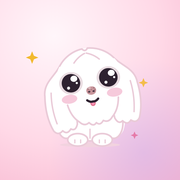
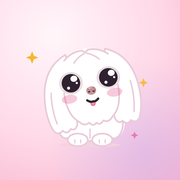
Pach: back to previous head outline
Claude-Session: https://claude.ai/code/session_01Qq7x9UtQMYa62nxgboFkmY

diff --git a/index.html b/index.html
@@ -11,7 +11,7 @@
 <meta name="theme-color" content="#FFF4F7" media="(prefers-color-scheme: light)">
 <meta name="theme-color" content="#1D1522" media="(prefers-color-scheme: dark)">
 <link rel="manifest" href="manifest.webmanifest">
-<link rel="apple-touch-icon" href="icons/apple-touch-icon.png?v=4">
+<link rel="apple-touch-icon" href="icons/apple-touch-icon.png?v=5">
 <link rel="icon" type="image/png" sizes="192x192" href="icons/icon-192.png">
 <script src="https://cdn.jsdelivr.net/npm/@supabase/supabase-js@2.45.4/dist/umd/supabase.js"></script>
 <script src="cloud.js"></script>
@@ -374,7 +374,7 @@ input,select,textarea{font-size:16px}
       <span class="status" id="status">Loading your saved data…</span>
     </div>
     <div class="pigbox">
-      <svg class="pig" id="pig" viewBox="0 0 120 112" role="img" aria-label="Pach the dog">         <ellipse cx="60" cy="110" rx="27" ry="2" fill="var(--line)"/>         <path d="M31 66 Q26 84 30 97 Q34 105 40 104 Q46 107.5 52 104.5 Q60 108.5 68 104.5 Q74 107.5 80 104 Q86 105 90 97 Q94 84 89 66 Z" fill="var(--fur)"/>         <path d="M30.5 88 Q30 95 32.5 99.5 Q35.5 105 40 104 Q46 107.5 52 104.5 Q60 108.5 68 104.5 Q74 107.5 80 104 Q84.5 105 87.5 99.5 Q90 95 89.5 88" fill="none" stroke="var(--fur-edge)" stroke-width="1.5" stroke-linecap="round" stroke-linejoin="round"/>         <g fill="none" stroke="var(--fur-edge)" stroke-width="1.2" stroke-linecap="round"><path d="M60 96 L60 104"/></g>         <g fill="var(--fur)" stroke="var(--fur-edge)" stroke-width="1.5">           <ellipse cx="49" cy="105.5" rx="9" ry="5.6"/><ellipse cx="71" cy="105.5" rx="9" ry="5.6"/>         </g>         <g fill="none" stroke="var(--fur-edge)" stroke-width="1.1" stroke-linecap="round">           <path d="M46.4 108.2 v-2.6"/><path d="M51.6 108.2 v-2.6"/><path d="M68.4 108.2 v-2.6"/><path d="M73.6 108.2 v-2.6"/>         </g>         <g transform="rotate(-9 60 54)">           <g fill="var(--fur)" stroke="var(--fur-edge)" stroke-width="1.5" stroke-linejoin="round">             <path d="M46 32 L35.5 35.1 C29 44 18.5 48 18 60 Q15.5 78 21 92 Q24.5 97 29 93 Q32.5 97.5 36.5 92.5 Q40.5 95.5 43 89 Q44 70 46 50 Z"/>             <path d="M74 32 L84.5 35.1 C91 44 101.5 48 102 60 Q104.5 78 99 92 Q95.5 97 91 93 Q87.5 97.5 83.5 92.5 Q79.5 95.5 77 89 Q76 70 74 50 Z"/>           </g>           <ellipse cx="60" cy="53" rx="30.5" ry="30" fill="var(--fur)"/>           <path d="M59.2 27.4 Q53 29.5 48.5 34.5" fill="none" stroke="var(--fur-edge)" stroke-width="1.3" stroke-linecap="round"/><path d="M60.8 27.4 Q67 29.5 71.5 34.5" fill="none" stroke="var(--fur-edge)" stroke-width="1.3" stroke-linecap="round"/><path d="M35.5 35.1 A30.5 30 0 0 1 57.5 23.1 Q60 26.6 62.5 23.1 A30.5 30 0 0 1 84.5 35.1" fill="none" stroke="var(--fur-edge)" stroke-width="1.5" stroke-linecap="round"/>           <path d="M36 58 Q34 80 45 87.5 Q49 92.5 53.5 89.5 Q57 94 60 90.5 Q63 94 66.5 89.5 Q71 92.5 75 87.5 Q86 80 84 58 Z" fill="var(--fur)"/>           <path d="M36.9 71 Q38.6 82 45 87.5 Q49 92.5 53.5 89.5 Q57 94 60 90.5 Q63 94 66.5 89.5 Q71 92.5 75 87.5 Q81.4 82 83.1 71" fill="none" stroke="var(--fur-edge)" stroke-width="1.5" stroke-linejoin="round" stroke-linecap="round"/>           <g fill="none" stroke="var(--fur-edge)" stroke-width="1.3" stroke-linecap="round">                          <path d="M24 58 Q22 72 25 86"/><path d="M96 58 Q98 72 95 86"/>           </g>           <ellipse cx="43" cy="52" rx="10.6" ry="10" fill="var(--rim)"/>           <ellipse cx="77" cy="52" rx="10.6" ry="10" fill="var(--rim)"/>           <g class="pig-eyes">             <circle cx="43" cy="52" r="8.3" fill="var(--eye)"/><circle cx="77" cy="52" r="8.3" fill="var(--eye)"/>             <ellipse cx="46.2" cy="48.4" rx="3.1" ry="2.8" fill="#fff"/><ellipse cx="80.2" cy="48.4" rx="3.1" ry="2.8" fill="#fff"/><circle cx="48.2" cy="52.6" r="1" fill="#fff"/><circle cx="82.2" cy="52.6" r="1" fill="#fff"/>             <circle cx="40.2" cy="56" r="1.4" fill="#fff" opacity=".9"/><circle cx="74.2" cy="56" r="1.4" fill="#fff" opacity=".9"/>           </g>           <ellipse cx="39.5" cy="66" rx="7" ry="4" fill="var(--accent)" opacity=".32"/><ellipse cx="80.5" cy="66" rx="7" ry="4" fill="var(--accent)" opacity=".32"/>           <g transform="translate(60 61.4) scale(0.72) translate(-60 -61.4)"><path d="M53.8 61 Q54.2 56.2 60 56.2 Q65.8 56.2 66.2 61 Q65.8 66.2 60 66.6 Q54.2 66.2 53.8 61 Z" fill="var(--nose)"/>           <ellipse cx="57.2" cy="62.4" rx="1.5" ry="1.15" fill="var(--eye)" opacity=".75"/>           <ellipse cx="62.8" cy="62.4" rx="1.5" ry="1.15" fill="var(--eye)" opacity=".75"/>           <g fill="var(--eye)" opacity=".4"><circle cx="56.5" cy="58.8" r=".7"/><circle cx="63.6" cy="58.4" r=".6"/><circle cx="60.3" cy="60.2" r=".55"/><circle cx="64.6" cy="60.8" r=".6"/></g>           <ellipse cx="58" cy="57.9" rx="2" ry=".9" fill="#fff" opacity=".45"/>           </g>           <g id="dogTongue"><path d="M57.8 71.1 Q57.6 74.8 59.8 74.9 Q62 74.8 61.8 71.2 Z" fill="#F48FB1" stroke="#E2728F" stroke-width=".9" stroke-linejoin="round"/></g>           <path id="pigMouth" d="M55 69.4 Q57.5 71.8 60 71.2 Q62.5 71.8 65 69.4" fill="none" stroke="var(--eye)" stroke-width="2" stroke-linecap="round" stroke-linejoin="round"/>         </g>         <path d="M8 26 l1.6 4 4 1.6 -4 1.6 -1.6 4 -1.6 -4 -4 -1.6 4 -1.6z" fill="var(--gold)"/>         <path d="M108 50 l1.2 3 3 1.2 -3 1.2 -1.2 3 -1.2 -3 -3 -1.2 3 -1.2z" fill="var(--gold)" opacity=".85"/>         <path d="M100 98 l1 2.4 2.4 1 -2.4 1 -1 2.4 -1 -2.4 -2.4 -1 2.4 -1z" fill="var(--accent)" opacity=".7"/>       </svg>
+      <svg class="pig" id="pig" viewBox="0 0 120 112" role="img" aria-label="Pach the dog">         <ellipse cx="60" cy="110" rx="27" ry="2" fill="var(--line)"/>         <path d="M31 66 Q26 84 30 97 Q34 105 40 104 Q46 107.5 52 104.5 Q60 108.5 68 104.5 Q74 107.5 80 104 Q86 105 90 97 Q94 84 89 66 Z" fill="var(--fur)"/>         <path d="M30.5 88 Q30 95 32.5 99.5 Q35.5 105 40 104 Q46 107.5 52 104.5 Q60 108.5 68 104.5 Q74 107.5 80 104 Q84.5 105 87.5 99.5 Q90 95 89.5 88" fill="none" stroke="var(--fur-edge)" stroke-width="1.5" stroke-linecap="round" stroke-linejoin="round"/>         <g fill="none" stroke="var(--fur-edge)" stroke-width="1.2" stroke-linecap="round"><path d="M60 96 L60 104"/></g>         <g fill="var(--fur)" stroke="var(--fur-edge)" stroke-width="1.5">           <ellipse cx="49" cy="105.5" rx="9" ry="5.6"/><ellipse cx="71" cy="105.5" rx="9" ry="5.6"/>         </g>         <g fill="none" stroke="var(--fur-edge)" stroke-width="1.1" stroke-linecap="round">           <path d="M46.4 108.2 v-2.6"/><path d="M51.6 108.2 v-2.6"/><path d="M68.4 108.2 v-2.6"/><path d="M73.6 108.2 v-2.6"/>         </g>         <g transform="rotate(-9 60 54)">           <g fill="var(--fur)" stroke="var(--fur-edge)" stroke-width="1.5" stroke-linejoin="round">             <path d="M42 26 Q22 34 18 58 Q15 78 21 92 Q24.5 97 29 93 Q32.5 97.5 36.5 92.5 Q40.5 95.5 43 89 Q44 70 46 50 Z"/>             <path d="M78 26 Q98 34 102 58 Q105 78 99 92 Q95.5 97 91 93 Q87.5 97.5 83.5 92.5 Q79.5 95.5 77 89 Q76 70 74 50 Z"/>           </g>           <ellipse cx="60" cy="53" rx="30.5" ry="30" fill="var(--fur)"/>           <path d="M59.2 27.4 Q53 29.5 48.5 34.5" fill="none" stroke="var(--fur-edge)" stroke-width="1.3" stroke-linecap="round"/><path d="M60.8 27.4 Q67 29.5 71.5 34.5" fill="none" stroke="var(--fur-edge)" stroke-width="1.3" stroke-linecap="round"/><path d="M40 31 Q48 24 57.5 24.6 Q60 27.6 62.5 24.6 Q72 24 80 31" fill="none" stroke="var(--fur-edge)" stroke-width="1.5" stroke-linecap="round"/>           <path d="M36 58 Q34 80 45 87.5 Q49 92.5 53.5 89.5 Q57 94 60 90.5 Q63 94 66.5 89.5 Q71 92.5 75 87.5 Q86 80 84 58 Z" fill="var(--fur)"/>           <path d="M35.5 60 Q35 80 45 87.5 Q49 92.5 53.5 89.5 Q57 94 60 90.5 Q63 94 66.5 89.5 Q71 92.5 75 87.5 Q85 80 84.5 60" fill="none" stroke="var(--fur-edge)" stroke-width="1.5" stroke-linejoin="round" stroke-linecap="round"/>           <g fill="none" stroke="var(--fur-edge)" stroke-width="1.3" stroke-linecap="round">                          <path d="M24 58 Q22 72 25 86"/><path d="M96 58 Q98 72 95 86"/>           </g>           <ellipse cx="43" cy="52" rx="10.6" ry="10" fill="var(--rim)"/>           <ellipse cx="77" cy="52" rx="10.6" ry="10" fill="var(--rim)"/>           <g class="pig-eyes">             <circle cx="43" cy="52" r="8.3" fill="var(--eye)"/><circle cx="77" cy="52" r="8.3" fill="var(--eye)"/>             <ellipse cx="46.2" cy="48.4" rx="3.1" ry="2.8" fill="#fff"/><ellipse cx="80.2" cy="48.4" rx="3.1" ry="2.8" fill="#fff"/><circle cx="48.2" cy="52.6" r="1" fill="#fff"/><circle cx="82.2" cy="52.6" r="1" fill="#fff"/>             <circle cx="40.2" cy="56" r="1.4" fill="#fff" opacity=".9"/><circle cx="74.2" cy="56" r="1.4" fill="#fff" opacity=".9"/>           </g>           <ellipse cx="39.5" cy="66" rx="7" ry="4" fill="var(--accent)" opacity=".32"/><ellipse cx="80.5" cy="66" rx="7" ry="4" fill="var(--accent)" opacity=".32"/>           <g transform="translate(60 61.4) scale(0.72) translate(-60 -61.4)"><path d="M53.8 61 Q54.2 56.2 60 56.2 Q65.8 56.2 66.2 61 Q65.8 66.2 60 66.6 Q54.2 66.2 53.8 61 Z" fill="var(--nose)"/>           <ellipse cx="57.2" cy="62.4" rx="1.5" ry="1.15" fill="var(--eye)" opacity=".75"/>           <ellipse cx="62.8" cy="62.4" rx="1.5" ry="1.15" fill="var(--eye)" opacity=".75"/>           <g fill="var(--eye)" opacity=".4"><circle cx="56.5" cy="58.8" r=".7"/><circle cx="63.6" cy="58.4" r=".6"/><circle cx="60.3" cy="60.2" r=".55"/><circle cx="64.6" cy="60.8" r=".6"/></g>           <ellipse cx="58" cy="57.9" rx="2" ry=".9" fill="#fff" opacity=".45"/>           </g>           <g id="dogTongue"><path d="M57.8 71.1 Q57.6 74.8 59.8 74.9 Q62 74.8 61.8 71.2 Z" fill="#F48FB1" stroke="#E2728F" stroke-width=".9" stroke-linejoin="round"/></g>           <path id="pigMouth" d="M55 69.4 Q57.5 71.8 60 71.2 Q62.5 71.8 65 69.4" fill="none" stroke="var(--eye)" stroke-width="2" stroke-linecap="round" stroke-linejoin="round"/>         </g>         <path d="M8 26 l1.6 4 4 1.6 -4 1.6 -1.6 4 -1.6 -4 -4 -1.6 4 -1.6z" fill="var(--gold)"/>         <path d="M108 50 l1.2 3 3 1.2 -3 1.2 -1.2 3 -1.2 -3 -3 -1.2 3 -1.2z" fill="var(--gold)" opacity=".85"/>         <path d="M100 98 l1 2.4 2.4 1 -2.4 1 -1 2.4 -1 -2.4 -2.4 -1 2.4 -1z" fill="var(--accent)" opacity=".7"/>       </svg>
       <div class="bubble" id="pigSays"><span class="dogname">Pach</span>Hi! Let's look after your money.</div>
     </div>
   </header>

diff --git a/sw.js b/sw.js
@@ -1,5 +1,5 @@
 // Keeps the app working offline. Bump VERSION to push an update.
-const VERSION="budget-v30";
+const VERSION="budget-v31";
 const CORE=["./","index.html","cloud.js","manifest.webmanifest","icons/apple-touch-icon.png","icons/icon-192.png","icons/icon-512.png"];
 self.addEventListener("install",e=>{e.waitUntil(caches.open(VERSION).then(c=>c.addAll(CORE)).then(()=>self.skipWaiting()))});
 self.addEventListener("activate",e=>{e.waitUntil(caches.keys().then(ks=>Promise.all(ks.filter(k=>k!==VERSION).map(k=>caches.delete(k)))).then(()=>self.clients.claim()))});
